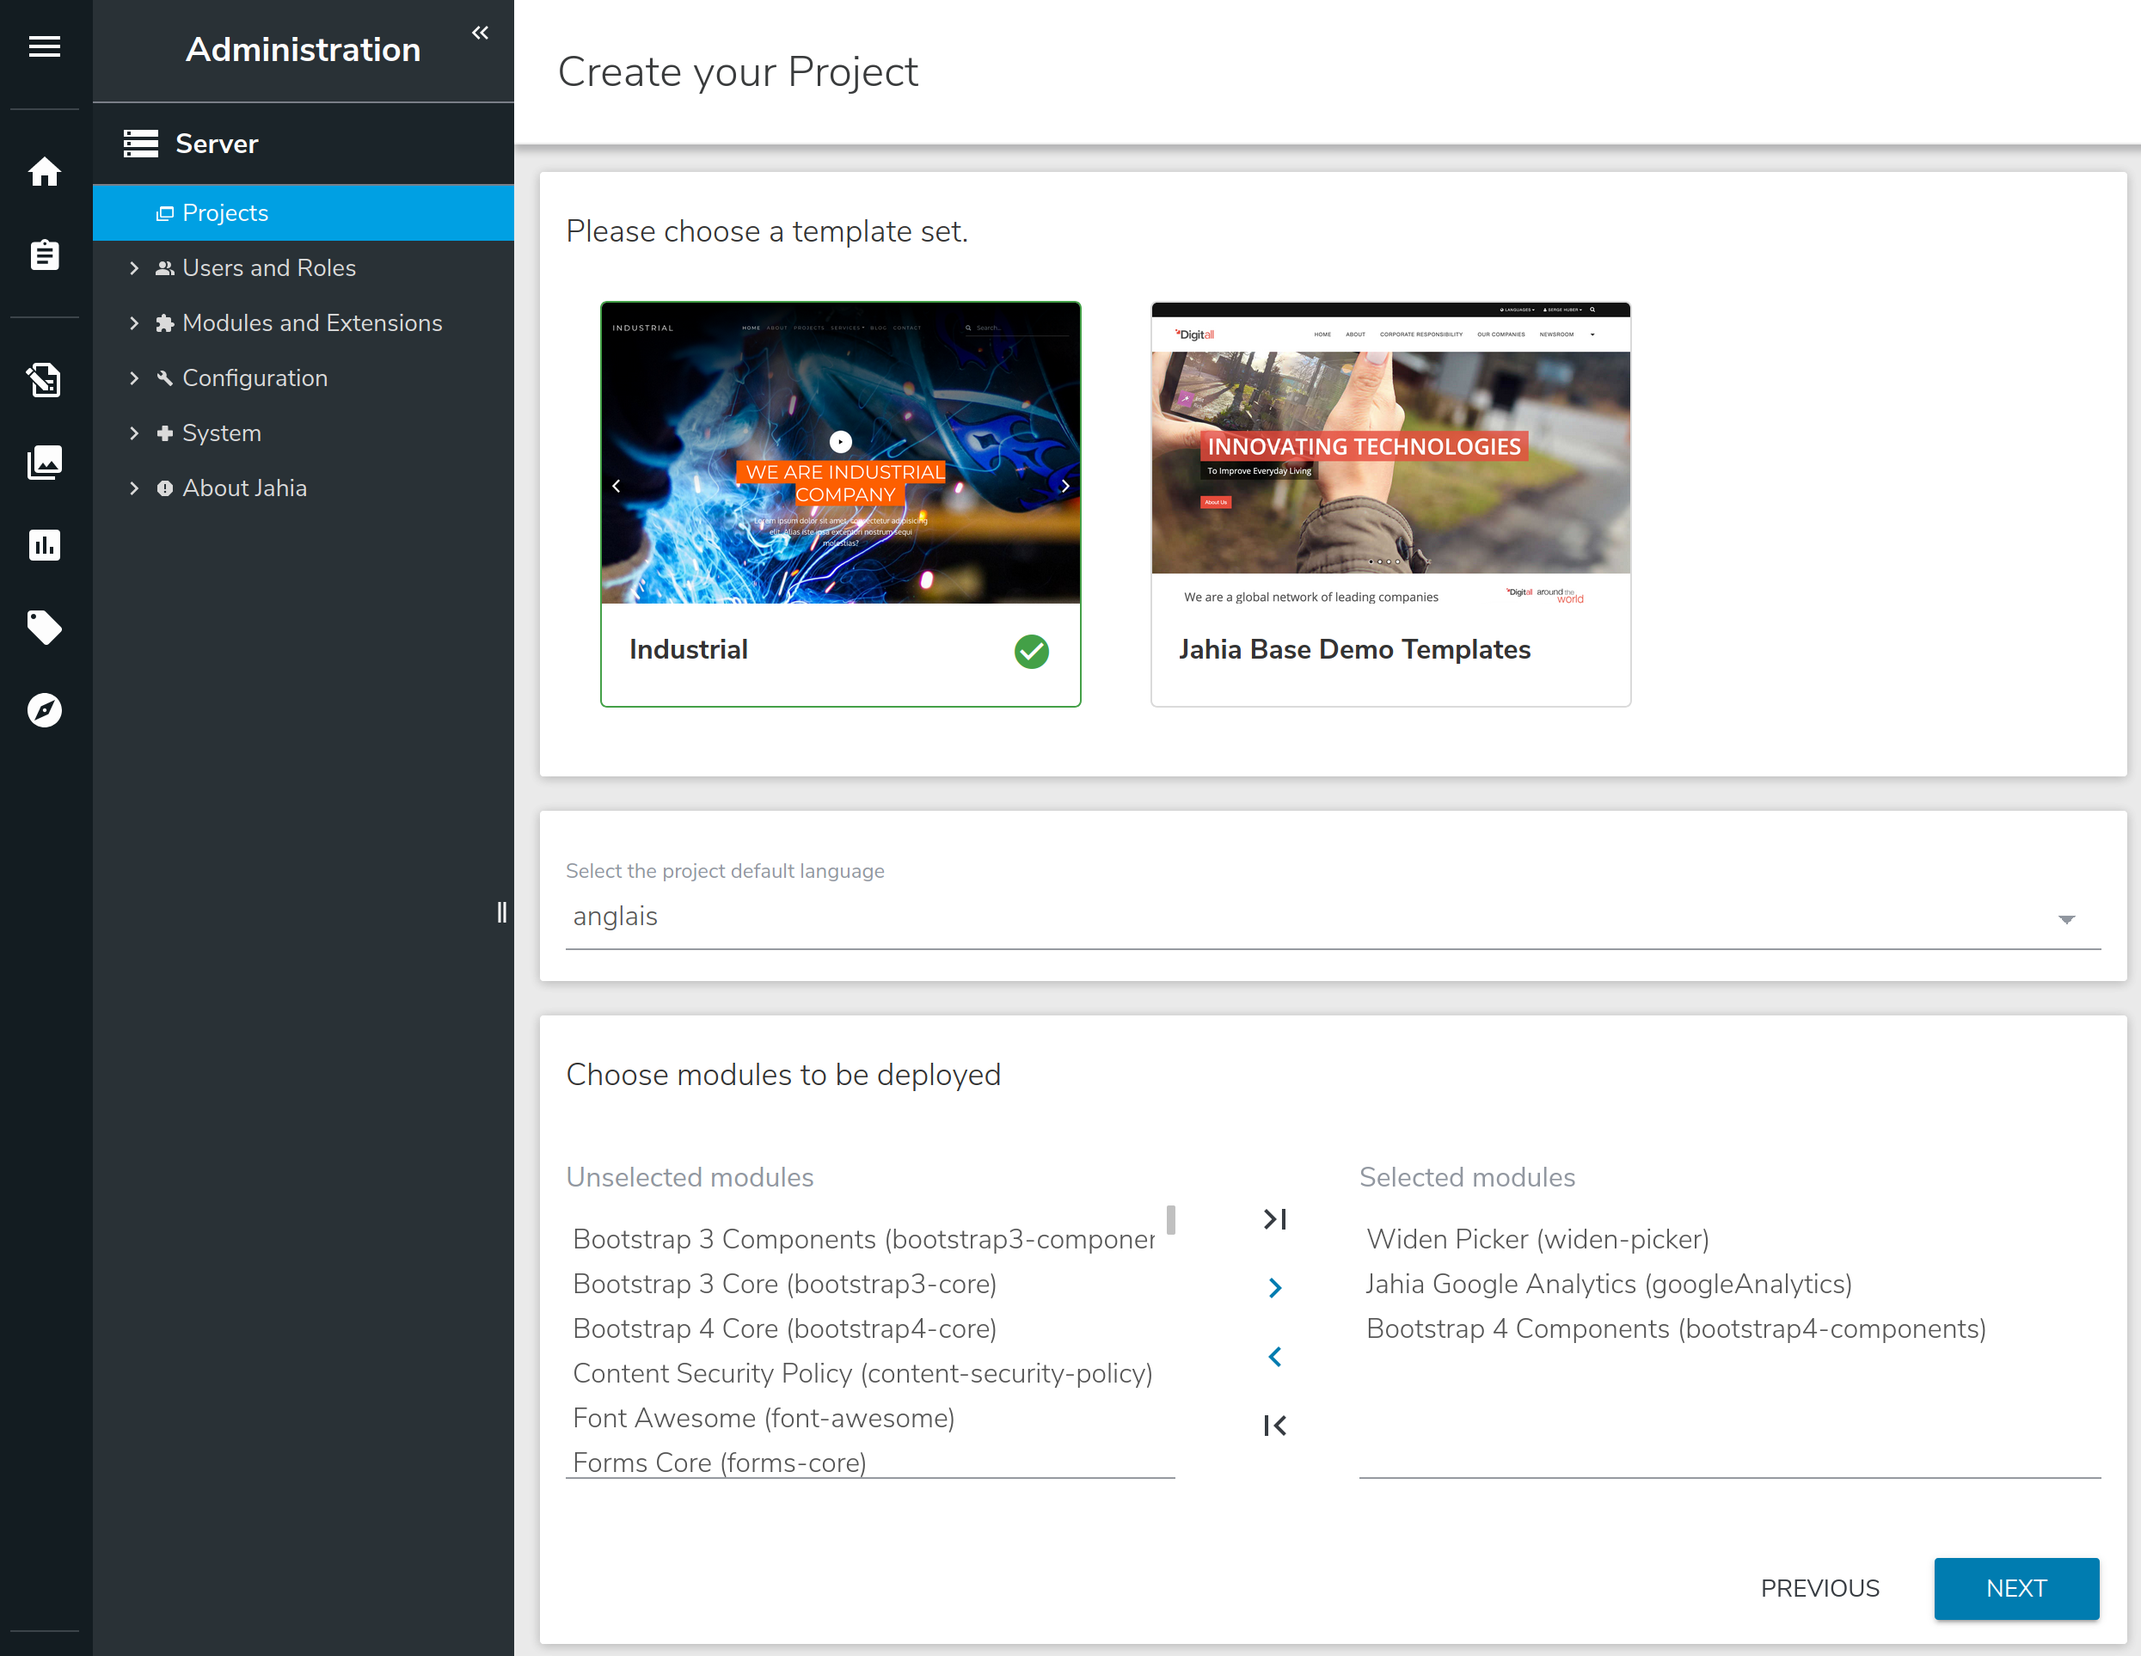
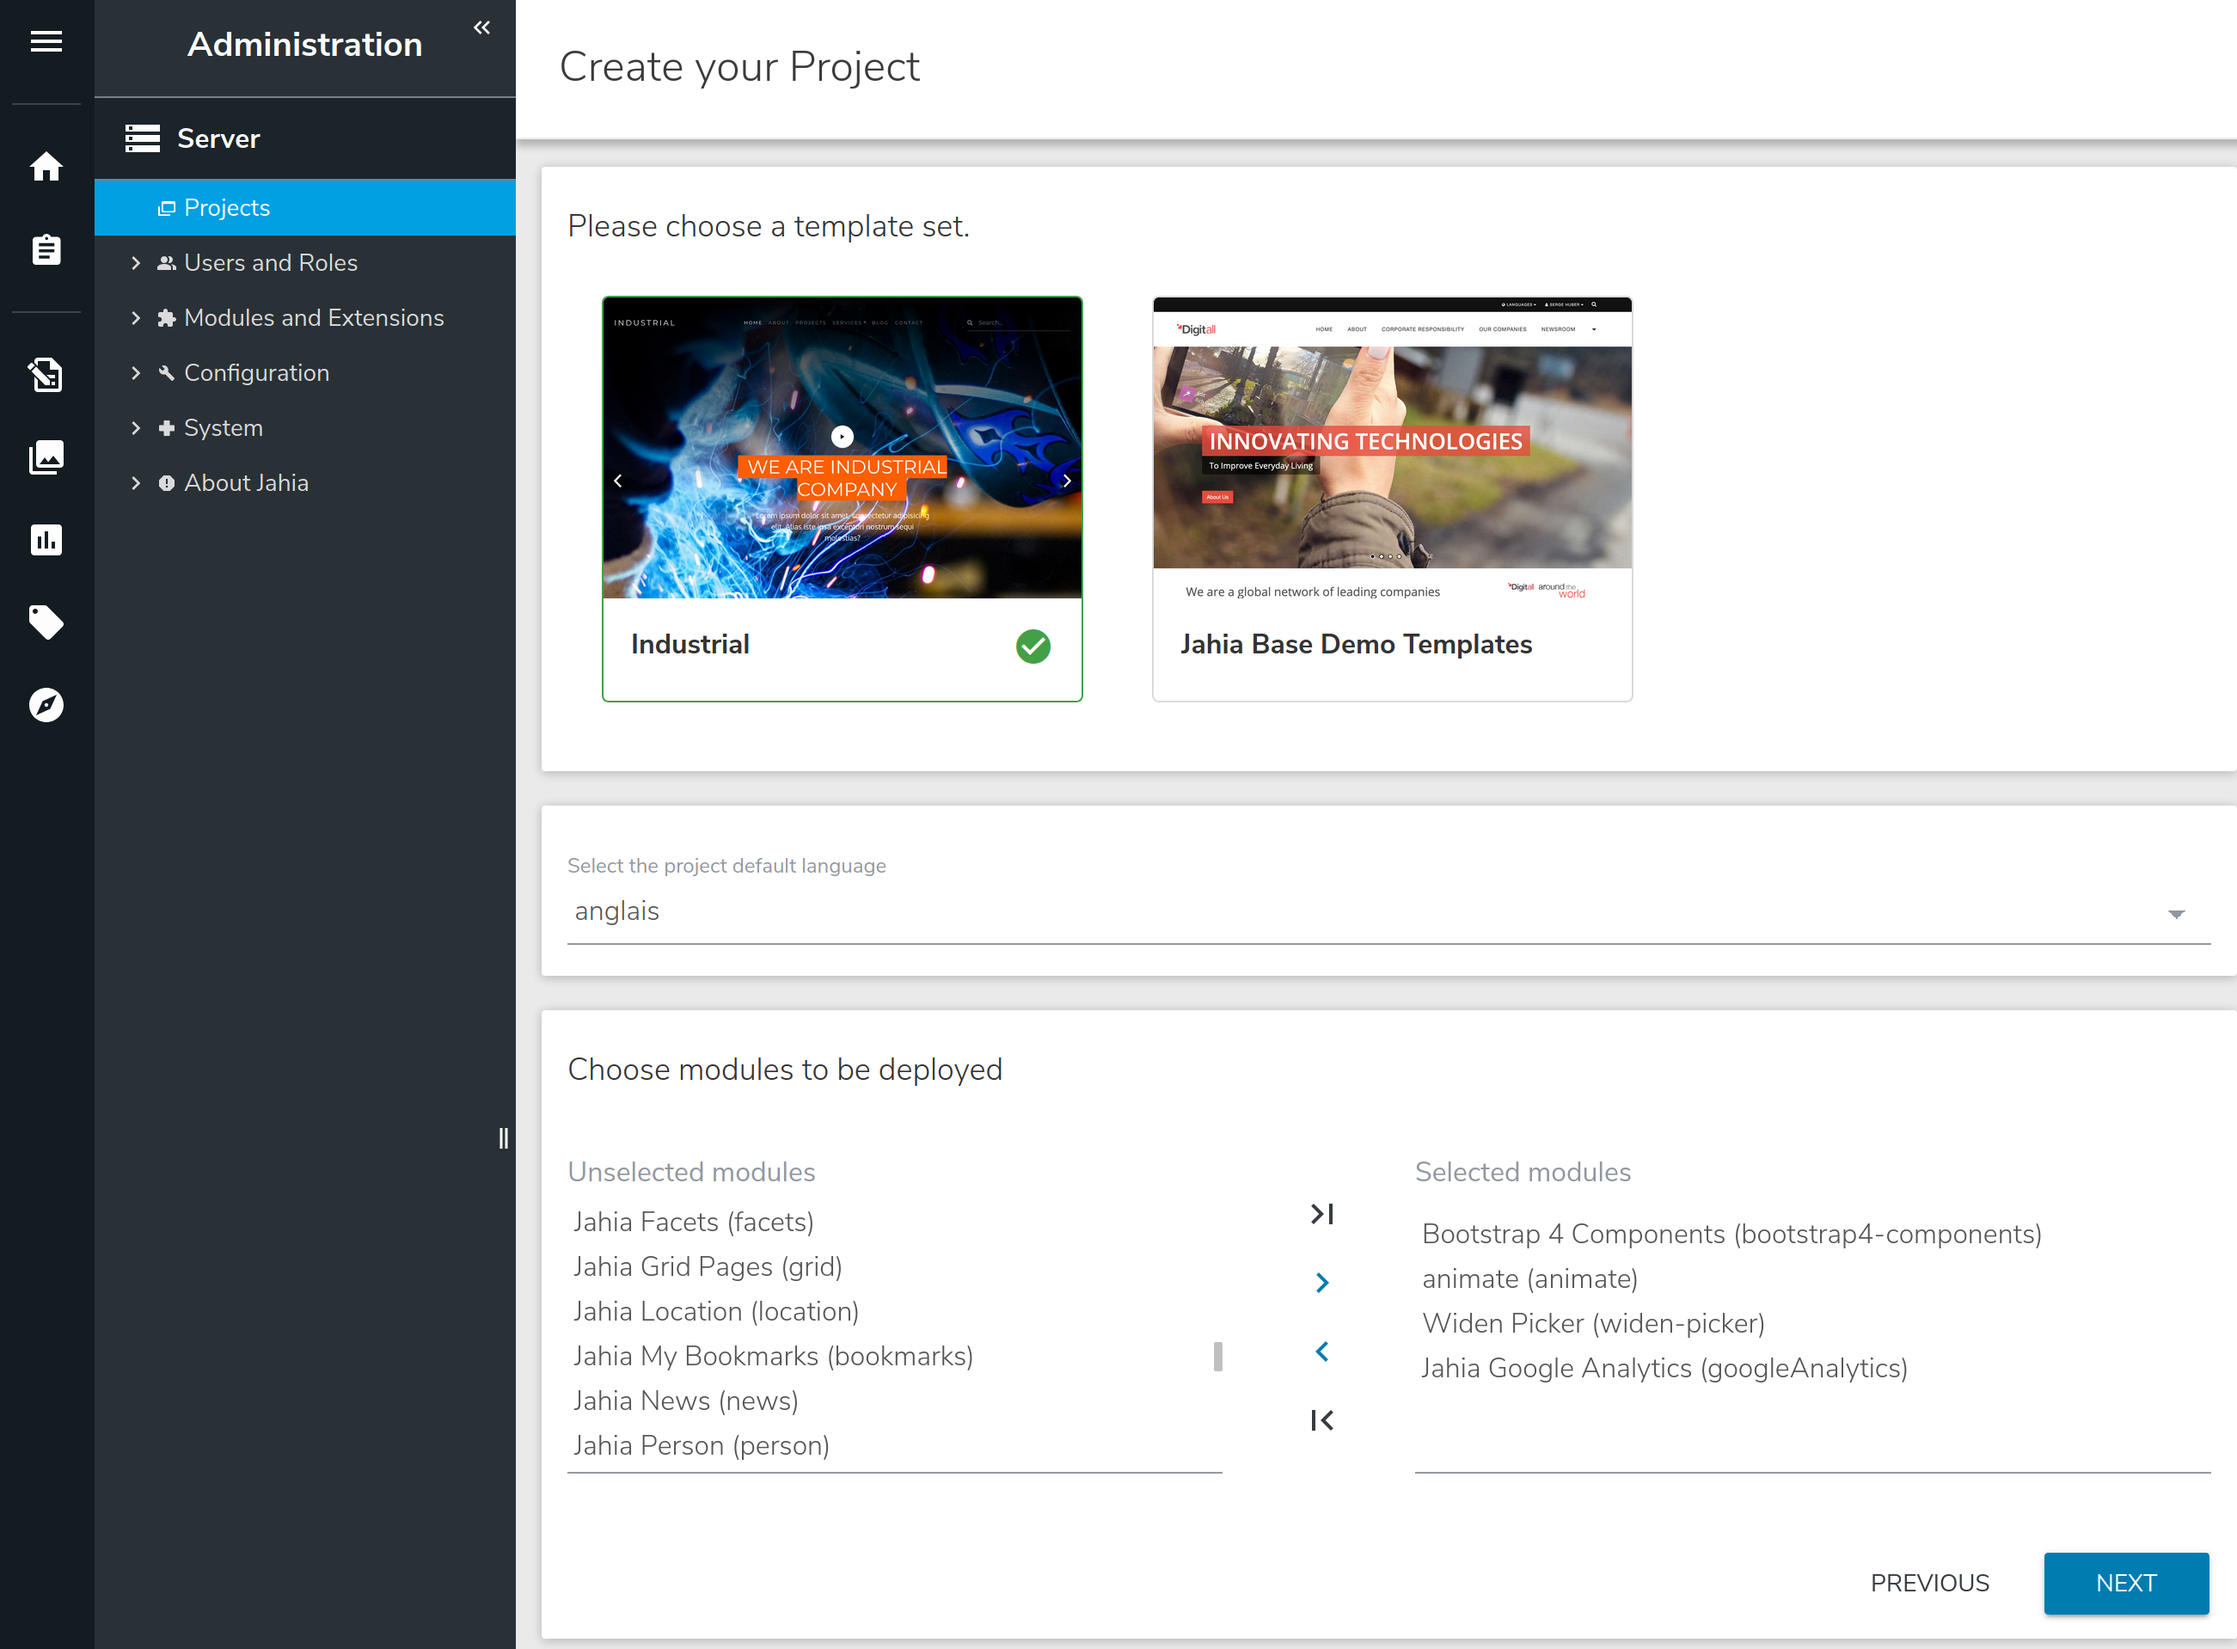
review the doc. Not working for now, wait for the GA of the jContent 8.0.2

diff --git a/README.md b/README.md
@@ -2,76 +2,94 @@
 
 <!-- * [Français][doc-fr]) -->
 
-This module is designed for marketers to create quickly and easily landing pages or microsites.
+This module is designed for marketers or communication team to create quickly and easily
+**landing pages** or **microsites**.
 
-The release of this template set, can also be used to demonstrate the integration of an 
- external Digital Asset Manager (DAM) with Jahia jContent. In this module we use 
- [Widen][widen-website] as DAM.
- 
-
-* [Install](#install)
-    * [Install dependencies](#install-dependencies)
-        * [Install the module `Bootstrap 4 Package`](#install-the-module-bootstrap-4-package-)
-        * [Install the module `animate`](#install-the-module-animate-)
-    * [Install the Industrial module](#install-the-industrial-module)
-* [Create a new website using `industrial` template set](#create-a-new-website-using-industrial-template-set)
-
-It contains a template, three pages sample and a collection of components:
-* Carousel (2 types: heading and testimonial)
-
-    ![][100]
-    
-    ![101]
-    
-* Gallery image
-
-    ![102]
-    
-* Features list
-
-    ![104]
-    
-* Cards elements
-
-    ![105]
-    
-* Text and illustration
-
-    ![103]
-    
-* Navigation bar
-* Footer components (about, contact, navigation)
-* ...
-
-
-This module contains a Jahia ready to use implementation of the free template [industrial][industrial-website],
+This module is a Jahia *ready to use* implementation of the template [industrial][industrial-website],
 based on the open source toolkit [Bootstrap 4][bs-website].
 Following the concept of bootstrap 4, the template can be modified or used as his.
 
+From a technical point of view, this module is a `template set`. But, it can be also used to demonstrate
+the integration of an external Digital Asset Manager (DAM) with Jahia jContent. Indeed, with this modules
+you can see the [Widen Picker Accelerator][wpa:gitUrl] in action within complex content like carousel.
+> Note: The DAM integration required a [Widen][widen:url] account, and content samples are linked to
+>the Jahia Widen account
+ 
+> Note: even if you do not have a Widen account you can use this template set. But the external DAM
+>capabilities will not be functional, and the media contents will not be there by default. If you need
+>some media contents for a demo, you can install the relative module [Industrial Media Component][imc:gitUrl].
+ 
+- [Module content](#module-content)
+- [Quick Start](#quick-start)
+    - [Install dependencies](#install-dependencies)
+        - [Install the module `Bootstrap 4 Package`](#install-the-module-bootstrap-4-package)
+        - [Install the module `animate`](#install-the-module-animate)
+        - [Install the module `widen-picker`](#install-the-module-widen-picker)
+    - [Install the Industrial module](#install-the-industrial-module)
+- [Create a new website using `industrial` template set](#create-a-new-website-using-industrial-template-set)
+- [Contribute with prepackage components](#contribute-with-prepackage-components)
+- [Google Analytics site settings](#google-analytics-site-settings)
+
+## Module content
+This module contains:
+- A set of Components that a contributor can copy/past/update to create it own website:
+    - Carousel (2 types: heading and testimonial)
+    
+        ![][100]
+        
+        ![101]
+        
+    - Gallery image
+    
+        ![102]
+        
+    - Features list
+    
+        ![104]
+        
+    - Cards elements
+    
+        ![105]
+        
+    - Text and illustration
+    
+        ![103]
+        
+    - Navigation bar
+    - Footer components (about, contact, navigation)
+    - ...
+- Two templates:
+    - A `Free` template to start from an empty page where contributor can copy/past/update
+    the previous prepackaged components.
+    - A `Structured` template to create a page with a predefined and fixed HTML grid.
+- A set of Page samples to present the type of website a contributor can create. Components can be
+    copy and paste from the Industrial pages.
 
 
-## Install
+
+## Quick Start
 Industrial Template Set module depends on:
 1. bootstrap 4
-1. animate
+2. animate
+3. widen picker
 
-Thus, before to install and run the Industrial module we need to ensure dependencies are satisfied
+Thus, before to install and to run the Industrial module we need to ensure dependencies are satisfied.
 
 ### Install dependencies
 
 #### Install the module `Bootstrap 4 Package`: 
-1. Goto `Administration` mode
-1. Expand `System components` entry and click `Modules`
-1. In the right panel click on top `Available modules` and search for *Bootstrap 4 Package*
+1. In jContent, go to `Administration` panel.
+2. In the `Server` section expand the `Modules and Extensions` entry and click `Modules`.
+3. From the right panel, click `Available modules` and search for **Bootstrap 4 Package**.
 
     ![200]
     
 1. Click the icon ![201] in the right of the package to download and install the module
 
 #### Install the module `animate`: 
-1. Goto `Administration` mode
-1. Expand `System components` entry and click `Modules`
-1. In the right panel click on top `Available modules` and search for *animate*
+1. In jContent, go to `Administration` panel.
+2. In the `Server` section expand the `Modules and Extensions` entry and click `Modules`.
+3. From the right panel, click `Available modules` and search for **animate**.
 
     ![202A]
     
@@ -79,26 +97,39 @@ Thus, before to install and run the Industrial module we need to ensure dependen
 
 #### Install the module `Widen Picker`: 
 
-1. Goto `Administration` mode
-1. Expand `System components` entry and click `Modules`
-1. In the right panel click on top `Available modules` and search for *animate*
+1. In jContent, go to `Administration` panel.
+2. In the `Server` section expand the `Modules and Extensions` entry and click `Modules`.
+3. From the right panel, click `Available modules` and search for **widen**.
 
-    ![202A]
+    ![205]
     
-1. Click the icon ![201] in the right of the package to download and install the module
+4. Click the icon ![201] in the right of the package to download and install the module
+5. To request the Widen server, you have to configure the module with your Widen API access information.
+Have a look at the [post-install][wpa:postInstall] process. 
 
 ### Install the Industrial module
 
-Now the dependence is installed, industrial module is ready to deploy.
+Now the dependencies are installed, industrial module is ready to be deployed.
 
-To install and deploy the module `Industrial` follow the next steps: 
-1. Goto `Administration` mode
-1. Expand `System components` entry and click `Modules`
-1. In the right panel click on top `Available modules` and search for *Industrial*
+#### From the source
+1. Download the zip archive of the latest release.
+2. Go to the root of the repository.
+1. Run the command `mvn clean install`. This create a jar file in the *target* repository.
+    > you must have a **java sdk** and **maven** installed
+1. In jContent, go to `Administration` panel.
+1. In the `Server` section expand the `Modules and Extensions` entry and click `Modules`.
+1. From the right panel, click `SELECT MODULE` and select the jar file in the *target* repository.
+1. Click `UPLOAD`.
 
-    ![202I]
+#### From the store
+1. In jContent, go to `Administration` panel.
+2. In the `Server` section expand the `Modules and Extensions` entry and click `Modules`.
+3. From the right panel, click `Available modules` and search for **industrial**.
+
+    <!--![200]-->
     
-1. Click the icon ![201] in the right of the package to download and install the module
+4. Click the icon ![201] in the right of the package to download and install the module.  
+ 
 
 ## Create a new website using `industrial` template set
 
@@ -106,30 +137,60 @@ The module industrial is now installed and ready to use. The module is a Jahia *
 
 To create a new website using `industrial` follow the next steps:
 1. Goto `Administration` mode
-1. Click `Web Projects` entry and click `CREATE` in the right panel
+2. Click `Projects` entry and click `CREATE` in the right panel
 
     ![Create a new web project][000]
 
-1. Fill the website name and key with the name you want and click NEXT
+3. Fill the website name and key with the name you want and click NEXT
 
     ![Create a new web project][001]
 
-1. Select the template set `industrial`
-1. Choose modules to be deployed:
-    1. `Bootstrap 4 Components`: this enable all default bootstrap 4 elements as the usefull `Layout and Grid`
-    1. `Jahia Google Analytics`: this enable the `Google Analytics site settings` entry used to include your google analytics tag (explained later)
-    
+4. Select the template set `industrial` and choose modules to be deployed:
+    1. (optional) `Bootstrap 4 Components`: to enable all default bootstrap 4 elements as
+    the useful **Layout and Grid**.
+    2. (optional) `Widen Picker`: to enable external DAM capabilities. Require a Widen account .
+    3. (optional) `animate`: to enable javascript animation set on content like images.
+    4. (optional) `Jahia Google Analytics`: to enable the `Google Analytics site settings`
+    entry used to include your google analytics tag.
+
     ![Create a new web project][002]
+    
+5. Review the information and click SAVE
+
+    ![003]
+    
+6. The web project is ready you can start to edit it
+
+    ![005]
+
+## Contribute with prepackage components
+By default, the module deploys 4 pages of which 3 are examples, and they can be deleted. But, keep in mind
+you can copy/past/update component from the industrial page. In the example below, we copy the carousel
+component before to copy it later in the Home page.
+
+![801]
+
+Components can also be copy from the `jContent/Content Folders` tree as presented below.
+
+![800]
+
+> Note: keep in mind that media contents inside the default components are linked to a Widen instance.
+>So without a Widen account these media content will not be displayed, but you can update them with a local
+>media content.
+
 <!--
 ## Use Jahia `Forms` and `jExperience` with an Industrial website
 [read more][forms-jx]
+-->
 
 ## Google Analytics site settings
 [read more][google-analytics]
--->
+
 [000]: doc/images/000_create_new_site.png
 [001]: doc/images/001_create_new_site.png
 [002]: doc/images/002_create_new_site.png
+[003]: doc/images/003_create_new_site.png
+[005]: doc/images/005_newSite.png
 [100]: doc/images/100_component_carousel.png
 [101]: doc/images/101_component_carousel.png
 [102]: doc/images/102_component_gallery.png
@@ -140,7 +201,10 @@ To create a new website using `industrial` follow the next steps:
 [201]: doc/images/201_modules_download_icon.png
 [202A]: doc/images/202_modules_animate.png
 [202I]: doc/images/202_modules_industrial.png
+[205]: doc/images/205_module_widen.png
 
+[800]: doc/images/800_template_sections.png
+[801]: doc/images/801_site_sample.png
 
 [forms-jx]: doc/en/formsAndJexperience.md
 [google-analytics]:doc/en/googleAnalytics.md
@@ -148,5 +212,8 @@ To create a new website using `industrial` follow the next steps:
 [bs-website]: https://getbootstrap.com/docs/
 [industrial-website]: https://colorlib.com/wp/template/industrial/
 [widen-website]: https://www.widen.com/
-
+[wpa:postInstall]: https://github.com/Jahia/widen-asset-picker#post-install-optional
+[wpa:gitUrl]: https://github.com/Jahia/widen-asset-picker
+[imc:gitUrl]: https://github.com/hduchesne/industrial-media-component
+[widen:url]: https://www.widen.com/
 [doc-fr]: doc/fr/README.md

diff --git a/doc/en/googleAnalytics.md b/doc/en/googleAnalytics.md
@@ -1,8 +1,15 @@
 # Google Analytics site settings
 Jahia offer to you an easy way to include your google analytics tag in your html page. To configure this feature follow the next steps :
-1. Goto `Edit Mode`
-1. In `PAGES` menu right click your site name and click `Edit`
-1. In the edit form goto `Options` section
-1. Enable the `Google Analytics site settings` entry :
+1. From `Page Composer`
+2. Right click the site name (in our case *Industrial*) and click `Edit`
+
+    <img src="../images/700_google_analytics.png" width="375px"/>
+
+3. In the edit form look for the `Options` section
+4. Enable the `Google Analytics site settings` entry :
     1. fill your *Google Analytics site ID*
     1. (optional) update the cookie live time
+    
+    ![700]
+    
+[700]: ../images/700_google_analytics.png
